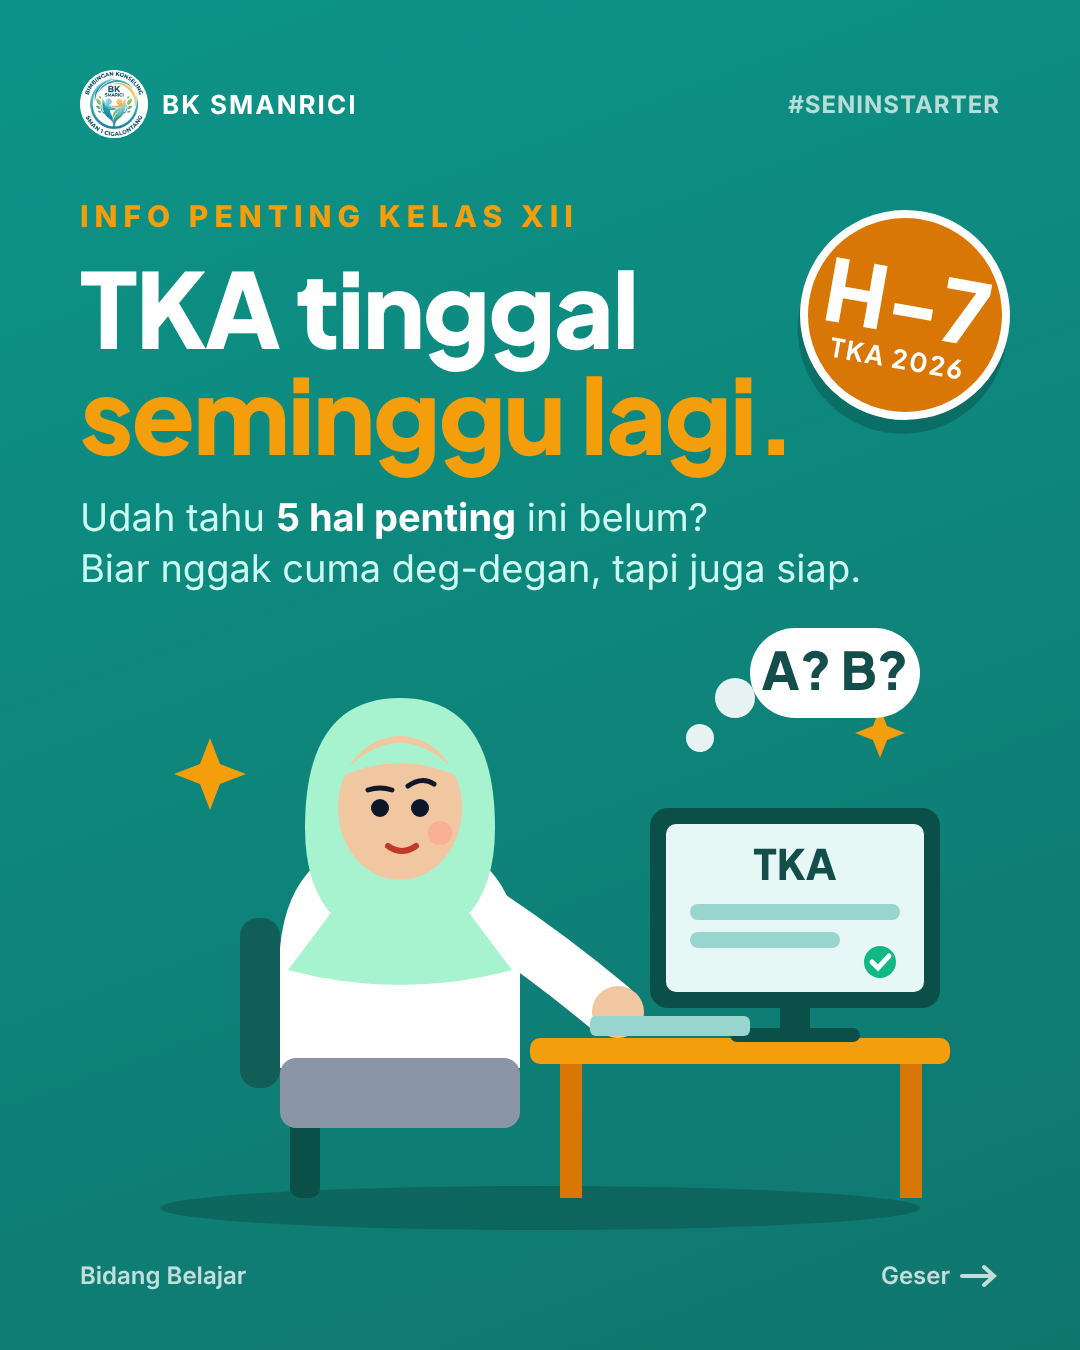
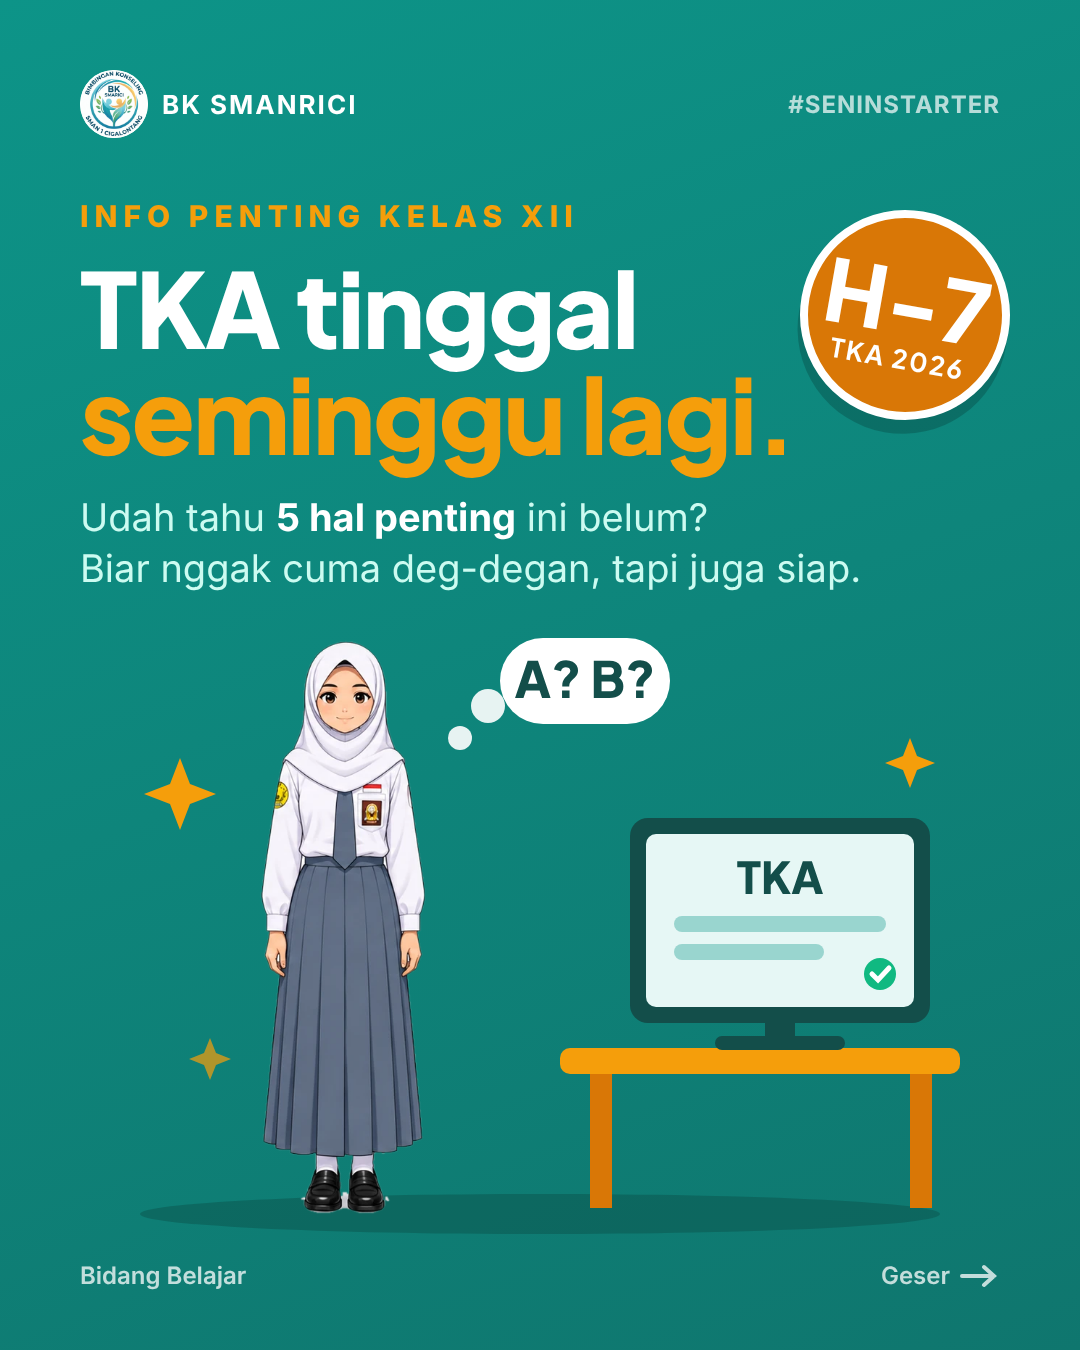
Pakai karakter siswa referensi SMANRICI di carousel TKA
- Simpan lembar referensi karakter dan potongan PNG transparan 6 pose
  (putra/putri: depan, menghadap kanan, menghadap kiri) beserta skrip
  pemotongnya di brand/karakter/
- Slide 1: siswi berdiri di samping komputer TKA; slide 3: potret siswa
  putra; slide 8: dua siswa berjalan ke ruang BK
- README brand: aturan pemakaian karakter

Claude-Session: https://claude.ai/code/session_018WWHGzf43cnjJy346VsAtj

Changed region(s): [[0.1833, 0.4667, 0.8861, 0.9022], [0.1222, 0.56, 0.2139, 0.6222]]

diff --git a/BK-Cigalontang/konten-instagram/desain/tka-5-hal-carousel.html b/BK-Cigalontang/konten-instagram/desain/tka-5-hal-carousel.html
@@ -209,59 +209,32 @@
   <div class="sub">Udah tahu <b style="color:#fff">5 hal penting</b> ini belum?<br>Biar nggak cuma deg-degan, tapi juga siap.</div>
   <div class="ilus">
     <svg width="900" height="620" viewBox="0 0 900 620" aria-hidden="true">
-      <!-- lantai & bayangan -->
-      <ellipse cx="450" cy="590" rx="380" ry="22" fill="#0B4F49" opacity=".5"/>
-      <!-- bintang / kilau -->
+      <ellipse cx="450" cy="596" rx="400" ry="20" fill="#0B4F49" opacity=".45"/>
       <g fill="#F59E0B">
-        <path d="M120 120 l10 26 26 10 -26 10 -10 26 -10 -26 -26 -10 26 -10z"/>
-        <path d="M790 90 l7 18 18 7 -18 7 -7 18 -7 -18 -18 -7 18 -7z"/>
-        <path d="M770 300 l6 15 15 6 -15 6 -6 15 -6 -15 -15 -6 15 -6z" opacity=".7"/>
+        <path d="M90 140 l10 26 26 10 -26 10 -10 26 -10 -26 -26 -10 26 -10z"/>
+        <path d="M820 120 l7 18 18 7 -18 7 -7 18 -7 -18 -18 -7 18 -7z"/>
+        <path d="M120 420 l6 15 15 6 -15 6 -6 15 -6 -15 -15 -6 15 -6z" opacity=".7"/>
       </g>
-      <circle cx="160" cy="330" r="8" fill="#fff" opacity=".4"/>
-      <circle cx="720" cy="200" r="6" fill="#fff" opacity=".4"/>
       <!-- gelembung pikiran -->
-      <circle cx="610" cy="120" r="14" fill="#fff" opacity=".9"/>
-      <circle cx="645" cy="80" r="20" fill="#fff" opacity=".9"/>
-      <rect x="660" y="10" width="170" height="90" rx="45" fill="#fff"/>
-      <text x="745" y="72" text-anchor="middle" font-family="Plus Jakarta Sans, Inter, sans-serif" font-size="52" font-weight="800" fill="#134E4A">A? B?</text>
-      <!-- kursi -->
-      <rect x="200" y="380" width="30" height="200" rx="10" fill="#0B4F49"/>
-      <rect x="150" y="300" width="40" height="170" rx="18" fill="#115E59"/>
-      <!-- badan siswa (seragam putih) -->
-      <path d="M190 330 q10 -110 120 -110 q110 0 120 110 l0 120 l-240 0z" fill="#FFFFFF"/>
-      <!-- rok abu -->
-      <rect x="190" y="440" width="240" height="70" rx="16" fill="#8A96A6"/>
-      <!-- lengan ke keyboard -->
-      <path d="M400 300 q60 40 120 90" stroke="#FFFFFF" stroke-width="56" stroke-linecap="round" fill="none"/>
-      <circle cx="528" cy="394" r="26" fill="#F1C7A1"/>
-      <!-- jilbab & wajah -->
-      <path d="M215 210 q0 -130 95 -130 q95 0 95 130 q0 60 -30 90 l-130 0 q-30 -30 -30 -90z" fill="#A7F3D0"/>
-      <path d="M240 296 l140 0 l42 56 q-112 30 -224 0z" fill="#A7F3D0"/>
-      <ellipse cx="310" cy="190" rx="62" ry="72" fill="#F1C7A1"/>
-      <path d="M248 160 q62 -70 124 0 q-62 -30 -124 0z" fill="#A7F3D0"/>
-      <!-- ekspresi penasaran -->
-      <circle cx="330" cy="190" r="9" fill="#0F172A"/>
-      <circle cx="290" cy="190" r="9" fill="#0F172A"/>
-      <path d="M318 168 q14 -10 26 -2" stroke="#0F172A" stroke-width="5" fill="none" stroke-linecap="round"/>
-      <path d="M278 172 q12 -4 24 0" stroke="#0F172A" stroke-width="5" fill="none" stroke-linecap="round"/>
-      <path d="M298 228 q14 10 28 0" stroke="#C0392B" stroke-width="6" fill="none" stroke-linecap="round"/>
-      <circle cx="350" cy="215" r="12" fill="#FF9E8A" opacity=".6"/>
-      <!-- meja -->
-      <rect x="440" y="420" width="420" height="26" rx="10" fill="#F59E0B"/>
-      <rect x="470" y="446" width="22" height="134" fill="#D97706"/>
-      <rect x="810" y="446" width="22" height="134" fill="#D97706"/>
-      <!-- komputer -->
-      <rect x="560" y="190" width="290" height="200" rx="18" fill="#0B4F49"/>
-      <rect x="576" y="206" width="258" height="168" rx="10" fill="#E6F7F5"/>
-      <rect x="690" y="390" width="30" height="30" fill="#0B4F49"/>
-      <rect x="640" y="410" width="130" height="14" rx="7" fill="#0B4F49"/>
-      <text x="705" y="262" text-anchor="middle" font-family="Plus Jakarta Sans, Inter, sans-serif" font-size="42" font-weight="800" fill="#134E4A">TKA</text>
-      <rect x="600" y="286" width="210" height="16" rx="8" fill="#99D5CF"/>
-      <rect x="600" y="314" width="150" height="16" rx="8" fill="#99D5CF"/>
-      <circle cx="790" cy="344" r="16" fill="#10B981"/>
-      <path d="M782 344 l6 6 11 -12" stroke="#fff" stroke-width="5" fill="none" stroke-linecap="round"/>
-      <!-- keyboard -->
-      <rect x="500" y="398" width="160" height="20" rx="6" fill="#99D5CF"/>
+      <circle cx="370" cy="120" r="12" fill="#fff" opacity=".9"/>
+      <circle cx="398" cy="88" r="17" fill="#fff" opacity=".9"/>
+      <rect x="410" y="20" width="170" height="86" rx="43" fill="#fff"/>
+      <text x="495" y="80" text-anchor="middle" font-family="Plus Jakarta Sans, Inter, sans-serif" font-size="50" font-weight="800" fill="#134E4A">A? B?</text>
+      <!-- meja & komputer -->
+      <rect x="470" y="430" width="400" height="26" rx="10" fill="#F59E0B"/>
+      <rect x="500" y="456" width="22" height="134" fill="#D97706"/>
+      <rect x="820" y="456" width="22" height="134" fill="#D97706"/>
+      <rect x="540" y="200" width="300" height="205" rx="18" fill="#134E4A"/>
+      <rect x="556" y="216" width="268" height="173" rx="10" fill="#E6F7F5"/>
+      <rect x="675" y="405" width="30" height="16" fill="#134E4A"/>
+      <rect x="625" y="418" width="130" height="14" rx="7" fill="#134E4A"/>
+      <text x="690" y="276" text-anchor="middle" font-family="Plus Jakarta Sans, Inter, sans-serif" font-size="44" font-weight="800" fill="#134E4A">TKA</text>
+      <rect x="584" y="298" width="212" height="16" rx="8" fill="#99D5CF"/>
+      <rect x="584" y="326" width="150" height="16" rx="8" fill="#99D5CF"/>
+      <circle cx="790" cy="356" r="16" fill="#10B981"/>
+      <path d="M782 356 l6 6 11 -12" stroke="#fff" stroke-width="5" fill="none" stroke-linecap="round"/>
+      <!-- karakter siswi (lembar referensi karakter) -->
+      <image href="../brand/karakter/siswa-putri-depan.png" x="170" y="22" width="166" height="574"/>
     </svg>
   </div>
   <div class="foot"><span>Bidang Belajar</span><span class="geser">Geser <svg width="40" height="24" viewBox="0 0 40 24"><path d="M2 12h32M24 3l10 9-10 9" stroke="currentColor" stroke-width="4" fill="none" stroke-linecap="round"/></svg></span></div>
@@ -321,23 +294,16 @@
   <p class="isi">Kelulusan tetap ditentukan sekolah. Jadi, lakukan yang terbaik, <mark>tanpa harus panik.</mark></p>
   <div class="ilus">
     <svg width="600" height="237" viewBox="0 0 760 300" aria-hidden="true">
-      <ellipse cx="380" cy="285" rx="300" ry="14" fill="#E6F7F5"/>
-      <!-- siswa laki-laki santai -->
-      <path d="M290 290 q0 -130 90 -130 q90 0 90 130z" fill="#FFFFFF" stroke="#CBD5E1" stroke-width="4"/>
-      <path d="M362 162 l18 40 18 -40" fill="#8A96A6"/>
-      <circle cx="380" cy="105" r="58" fill="#C98E63"/>
-      <path d="M322 98 q4 -66 62 -62 q54 4 54 58 q-30 -28 -116 4z" fill="#0F172A"/>
-      <path d="M356 104 q8 -8 16 0 M392 104 q8 -8 16 0" stroke="#0F172A" stroke-width="5" fill="none" stroke-linecap="round"/>
-      <path d="M360 130 q20 18 40 0" stroke="#0F172A" stroke-width="5" fill="none" stroke-linecap="round"/>
-      <!-- jempol -->
-      <circle cx="500" cy="210" r="30" fill="#C98E63"/>
-      <rect x="490" y="160" width="20" height="44" rx="10" fill="#C98E63"/>
-      <path d="M455 260 q20 -40 45 -50" stroke="#FFFFFF" stroke-width="34" stroke-linecap="round" fill="none"/>
-      <!-- gelembung napas tenang -->
+      <defs><clipPath id="potret"><circle cx="380" cy="150" r="140"/></clipPath></defs>
       <g fill="none" stroke="#10B981" stroke-width="6" stroke-linecap="round">
-        <path d="M200 120 q-30 30 0 60"/><path d="M165 105 q-45 45 0 90" opacity=".6"/>
-        <path d="M560 70 q30 30 0 60"/><path d="M595 55 q45 45 0 90" opacity=".6"/>
+        <path d="M200 110 q-30 40 0 80"/><path d="M160 90 q-48 60 0 120" opacity=".5"/>
+        <path d="M560 110 q30 40 0 80"/><path d="M600 90 q48 60 0 120" opacity=".5"/>
       </g>
+      <circle cx="380" cy="150" r="140" fill="#CCFBF1"/>
+      <g clip-path="url(#potret)">
+        <image href="../brand/karakter/siswa-putra-depan.png" x="210" y="22" width="340" height="1127"/>
+      </g>
+      <circle cx="380" cy="150" r="140" fill="none" stroke="#0D9488" stroke-width="8"/>
     </svg>
   </div>
   <div class="foot"><span>Info terbaru: tka.kemendikdasmen.go.id</span><span class="geser">Geser <svg width="40" height="24" viewBox="0 0 40 24"><path d="M2 12h32M24 3l10 9-10 9" stroke="currentColor" stroke-width="4" fill="none" stroke-linecap="round"/></svg></span></div>
@@ -433,32 +399,21 @@
   <p class="isi">Ruang BK terbuka buat kamu: tanya soal TKA, pilihan prodi, atau sekadar cerita.</p>
   <div class="ilus">
     <svg width="860" height="330" viewBox="0 0 860 330" aria-hidden="true">
-      <ellipse cx="430" cy="318" rx="360" ry="12" fill="#0B4F49" opacity=".5"/>
+      <ellipse cx="430" cy="320" rx="380" ry="12" fill="#0B4F49" opacity=".45"/>
       <!-- pintu ruang BK -->
       <rect x="40" y="30" width="200" height="290" rx="12" fill="#F59E0B"/>
       <rect x="62" y="52" width="156" height="268" rx="6" fill="#FEF3C7"/>
       <circle cx="198" cy="190" r="10" fill="#134E4A"/>
       <rect x="82" y="80" width="116" height="50" rx="10" fill="#134E4A"/>
       <text x="140" y="116" text-anchor="middle" font-family="Plus Jakarta Sans, Inter" font-weight="800" font-size="32" fill="#F59E0B">BK</text>
-      <!-- guru BK -->
-      <path d="M330 320 q0 -120 80 -120 q80 0 80 120z" fill="#0D9488"/>
-      <circle cx="410" cy="150" r="50" fill="#F1C7A1"/>
-      <path d="M358 150 q-4 -74 54 -72 q54 2 50 72 q-20 -40 -104 0z" fill="#0F172A"/>
-      <rect x="378" y="140" width="28" height="20" rx="8" fill="none" stroke="#0F172A" stroke-width="4"/>
-      <rect x="414" y="140" width="28" height="20" rx="8" fill="none" stroke="#0F172A" stroke-width="4"/>
-      <path d="M394 176 q16 12 32 0" stroke="#0F172A" stroke-width="5" fill="none" stroke-linecap="round"/>
-      <!-- siswi berjilbab -->
-      <path d="M560 320 q0 -110 75 -110 q75 0 75 110z" fill="#FFFFFF"/>
-      <path d="M582 170 q0 -92 53 -92 q53 0 53 92 q0 40 -20 58 l-66 0 q-20 -18 -20 -58z" fill="#E6F7F5"/>
-      <ellipse cx="635" cy="160" rx="38" ry="44" fill="#C98E63"/>
-      <path d="M598 140 q37 -46 74 0 q-37 -20 -74 0z" fill="#E6F7F5"/>
-      <circle cx="622" cy="160" r="6" fill="#0F172A"/><circle cx="648" cy="160" r="6" fill="#0F172A"/>
-      <path d="M624 182 q11 8 22 0" stroke="#0F172A" stroke-width="5" fill="none" stroke-linecap="round"/>
-      <!-- gelembung chat -->
-      <rect x="470" y="20" width="150" height="74" rx="24" fill="#fff"/>
-      <path d="M500 94 l-6 22 26 -22z" fill="#fff"/>
-      <circle cx="510" cy="57" r="9" fill="#134E4A"/><circle cx="545" cy="57" r="9" fill="#134E4A"/><circle cx="580" cy="57" r="9" fill="#134E4A"/>
-      <path d="M760 70 c0-16 22-22 30-6 c8-16 30-10 30 6 c0 22-30 38-30 38 s-30-16-30-38z" fill="#F59E0B"/>
+      <!-- dua siswa berjalan menuju ruang BK (lembar referensi karakter) -->
+      <image href="../brand/karakter/siswa-putra-samping-kiri.png" x="330" y="8" width="62" height="314"/>
+      <image href="../brand/karakter/siswa-putri-samping-kiri.png" x="440" y="24" width="70" height="298"/>
+      <!-- gelembung chat & hati -->
+      <rect x="560" y="40" width="150" height="74" rx="24" fill="#fff"/>
+      <path d="M580 114 l-24 18 44 -18z" fill="#fff"/>
+      <circle cx="600" cy="77" r="9" fill="#134E4A"/><circle cx="635" cy="77" r="9" fill="#134E4A"/><circle cx="670" cy="77" r="9" fill="#134E4A"/>
+      <path d="M750 90 c0-16 22-22 30-6 c8-16 30-10 30 6 c0 22-30 38-30 38 s-30-16-30-38z" fill="#F59E0B"/>
     </svg>
   </div>
   <div class="info">

diff --git a/BK-Cigalontang/konten-instagram/brand/karakter/potong_karakter.py b/BK-Cigalontang/konten-instagram/brand/karakter/potong_karakter.py
@@ -1,0 +1,83 @@
+"""
+Potong karakter dari lembar referensi menjadi PNG transparan.
+Latar putih dihapus dengan flood-fill dari tepi gambar (garis luar karakter
+menahan isian, sehingga seragam putih tetap utuh).
+Jalankan: python3 potong_karakter.py
+"""
+from pathlib import Path
+import numpy as np
+from PIL import Image, ImageFilter
+
+DIR = Path(__file__).parent
+SUMBER = DIR / "referensi-karakter-siswa.webp"
+# nama: (x_awal, x_akhir) kolom pada lembar referensi
+POSE = {
+    "siswa-putra-depan": (6, 264),
+    "siswa-putra-samping-kanan": (282, 456),
+    "siswa-putra-samping-kiri": (457, 630),
+    "siswa-putri-depan": (892, 1124),
+    "siswa-putri-samping-kanan": (1124, 1310),
+    "siswa-putri-samping-kiri": (1340, 1536),
+}
+AMBANG_PUTIH = 236
+
+
+def geser(m, dy, dx):
+    out = np.zeros_like(m)
+    h, w = m.shape
+    out[max(dy, 0):h + min(dy, 0), max(dx, 0):w + min(dx, 0)] = \
+        m[max(-dy, 0):h + min(-dy, 0), max(-dx, 0):w + min(-dx, 0)]
+    return out
+
+
+def celah_tertutup(kandidat, a, min_luas=150, maks_luas=4000):
+    """Area putih kecil yang terkurung garis (mis. celah lengan-badan) ikut dihapus.
+    Area besar (kain seragam/jilbab) dibiarkan."""
+    h, w = kandidat.shape
+    sudah = np.zeros_like(kandidat)
+    hasil = np.zeros_like(kandidat)
+    for y0, x0 in zip(*np.nonzero(kandidat)):
+        if sudah[y0, x0]:
+            continue
+        tumpukan, piksel = [(y0, x0)], []
+        sudah[y0, x0] = True
+        while tumpukan:
+            y, x = tumpukan.pop()
+            piksel.append((y, x))
+            for yy, xx in ((y + 1, x), (y - 1, x), (y, x + 1), (y, x - 1)):
+                if 0 <= yy < h and 0 <= xx < w and kandidat[yy, xx] and not sudah[yy, xx]:
+                    sudah[yy, xx] = True
+                    tumpukan.append((yy, xx))
+        ys, xs = zip(*piksel)
+        terang = a[list(ys), list(xs)].min(axis=1).mean()
+        if min_luas <= len(piksel) <= maks_luas and terang >= 250:
+            hasil[list(ys), list(xs)] = True
+    return hasil
+
+
+def potong(img, x0, x1):
+    a = np.asarray(img.crop((x0, 0, x1, img.height)).convert("RGB")).astype(int)
+    putih = a.min(axis=2) >= AMBANG_PUTIH
+    latar = np.zeros_like(putih)
+    latar[0, :] = putih[0, :]; latar[-1, :] = putih[-1, :]
+    latar[:, 0] = putih[:, 0]; latar[:, -1] = putih[:, -1]
+    while True:
+        baru = latar | geser(latar, 1, 0) | geser(latar, -1, 0) | geser(latar, 0, 1) | geser(latar, 0, -1)
+        baru &= putih
+        if (baru == latar).all():
+            break
+        latar = baru
+    latar |= celah_tertutup(putih & ~latar, a)
+    alpha = Image.fromarray(np.where(latar, 0, 255).astype("uint8"))
+    alpha = alpha.filter(ImageFilter.MinFilter(3)).filter(ImageFilter.GaussianBlur(0.8))
+    rgba = Image.fromarray(a.astype("uint8")).convert("RGBA")
+    rgba.putalpha(alpha)
+    return rgba.crop(rgba.getbbox())
+
+
+if __name__ == "__main__":
+    img = Image.open(SUMBER)
+    for nama, (x0, x1) in POSE.items():
+        hasil = potong(img, x0, x1)
+        hasil.save(DIR / f"{nama}.png")
+        print(nama, hasil.size)

diff --git a/BK-Cigalontang/konten-instagram/brand/README.md b/BK-Cigalontang/konten-instagram/brand/README.md
@@ -45,3 +45,18 @@ Sumber: `Panduan_Identitas_Digital_IG_bksmanrici.pdf` (folder ini).
 - Maksimal 3 warna brand per slide + netral; emas untuk satu titik fokus saja (CTA/sorotan).
 - Ilustrasi gaya flat, karakter beragam (berjilbab & tidak, warna kulit beragam), seragam putih abu.
 - Contoh penerapan: `../desain/tka-5-hal-carousel.html`.
+
+## Karakter Siswa
+
+Lembar referensi: `karakter/referensi-karakter-siswa.webp` (siswa putra & putri SMANRICI, seragam putih abu: dasi abu, badge OSIS di saku, bendera merah putih, emblem kuning di lengan kiri, sepatu hitam, kaos kaki putih; siswi berjilbab putih panjang, kemeja lengan panjang, rok abu lipit panjang).
+
+PNG transparan siap pakai (dibuat oleh `karakter/potong_karakter.py`):
+
+| File | Pose |
+|---|---|
+| `siswa-putra-depan.png` | Putra, tampak depan |
+| `siswa-putra-samping-kanan.png` / `-kiri.png` | Putra, menghadap kanan / kiri |
+| `siswa-putri-depan.png` | Putri, tampak depan |
+| `siswa-putri-samping-kanan.png` / `-kiri.png` | Putri, menghadap kanan / kiri |
+
+Aturan pakai: jangan ubah proporsi (skala seragam saja), boleh dipotong jadi potret dalam lingkaran (lihat slide 3 carousel TKA), dan pakai karakter yang menghadap ke arah objek cerita (pintu BK, komputer, dsb.). Untuk pose lain (duduk, menunjuk, ekspresi berbeda), buat karakter baru dengan lembar referensi ini sebagai patokan agar wajah & seragam konsisten. Karakter putra tampak depan masih menyisakan sedikit putih di sela lengan, jadi taruh di latar terang.
